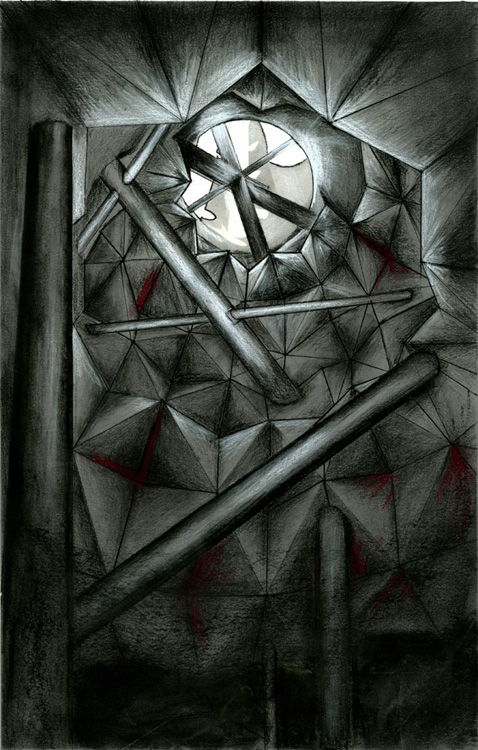
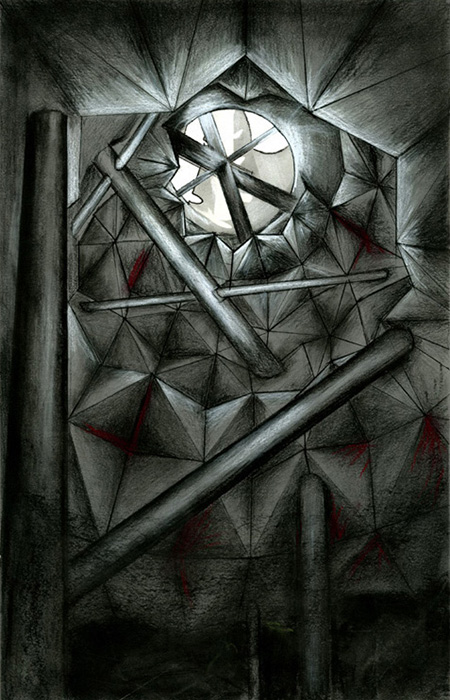
Architecture Page Responsiveness

diff --git a/assets/css/world.css b/assets/css/world.css
@@ -77,7 +77,7 @@ h7 {
     line-height: 1.4;
 }
 h8 {
-    font-size: calc(40px + (80 - 40) * ((100vw - 320px) / (1600 - 320)));;;
+    font-size: calc(30px + (80 - 30) * ((100vw - 320px) / (1600 - 320)));;;
     color:#3D3D3D; 
     font-family: 'Oswald', sans-serif;
     letter-spacing: 3px;
@@ -273,6 +273,7 @@ p {
 }
 .back-flex p { 
     font-size: calc(8px + (14 - 8) * ((100vw - 320px) / (1600 - 320)));
+    line-height: 1.4;
 }
 /* Desktop */
 @media all and (min-width:1500px) {
@@ -324,8 +325,6 @@ p {
     border: solid;
     border-width: 1px;
     align-self: end;
-    display: flex;
-
 }
 .arch-b {
     grid-area: title-a;
@@ -345,27 +344,29 @@ p {
     min-width: 0;
     border: solid;
     border-width: 1px;
-    object-fit: cover;
+    height: 100%;
 }
 .arch-e {
     grid-area: description-a;
     min-width: 0;
     font-size: calc(8px + (14 - 8) * ((100vw - 320px) / (1600 - 320)));
     line-height: 1.4;
+    align-self: center;
 }
 .arch-f {
     grid-area: section1-a;
     min-width: 0;
     border: solid;
     border-width: 1px;
-    object-fit: cover;
+    align-self: end;
 }
 .arch-g {
     grid-area: section2-a;
     min-width: 0;
     border: solid;
     border-width: 1px;
-    object-fit: cover;
+    align-self: end;
+    
 }
 .arch-h {
     grid-area: interior2-a;
@@ -379,12 +380,7 @@ p {
     min-width: 0;
     border: solid;
     border-width: 1px;
-    object-fit: cover;
-}
-.back3 img { 
-    object-fit: cover;
-    width: 100%;
-    max-height: 100%;
+    height: 100%;
 }
 .back3 {
     display: flex; 
@@ -398,9 +394,7 @@ p {
     background-color: none;
     margin: -15% auto 0px auto;
     display: grid;
-    overflow: hidden;
     grid-template-columns: 2fr repeat(2, 1fr);
-    grid-template-rows: 100px 270px 260px 370px 300px 700px;
     grid-template-areas: 
       ". concept-a concept-a"
       "title-a concept-a concept-a"
@@ -459,8 +453,9 @@ p {
 .comm-c {
     grid-area: intro-c;
     font-size: calc(8px + (14 - 8) * ((100vw - 320px) / (1600 - 320)));
+    line-height: 1.4;
     text-align: right;
-    min-width: 0;
+    align-self: center;
 }
 .comm-c p {
     font-size: (8px + (14 - 8) * ((100vw - 320px) / (1600 - 320)));
@@ -469,9 +464,9 @@ p {
     grid-area: birdseye-c;
     min-width: 0;
     border: solid;
-    object-fit: cover;
-    border: solid;
     border-width: 1px;
+    height: 100%;
+    min-height: 350px;
 }
 .comm-e {
     grid-area: diagram-c;
@@ -480,44 +475,36 @@ p {
 .comm-f {
     grid-area: plan1-c;
     min-width: 0;
-    object-fit: cover;
+    width: 75%;
+    margin: 0 auto;
 }
 .comm-g {
     grid-area: plan2-c;
     min-width: 0;
-    object-fit: cover;
+    width: 75%;
+    margin: 0 auto;
 }
 .comm-h {
     grid-area: ext1-c;
     min-width: 0;
-    object-fit: cover;
     border: solid;
     border-width: 1px;
 }
 .comm-i {
     grid-area: ext2-c;
     min-width: 0;
-    object-fit: cover;
     border: solid;
     border-width: 1px;
 }
 .comm-j {
     grid-area: elev-c;
     min-width: 0;
-    object-fit: cover;
     border: solid;
     border-width: 1px;
 }
 .comm-k {
     grid-area: section-c;
     min-width: 0;
-    object-fit: cover;
-    overflow: hidden;
-}
-.back4 img { 
-    object-fit: cover;
-    width: 100%;
-    max-height: 100%;
 }
 .back4 {
     display: flex; 
@@ -532,9 +519,7 @@ p {
     background-color: none;
     margin: -15% auto 0px auto;
     display: grid;
-    overflow: hidden;
     grid-template-columns: 1.1fr 1fr;
-    grid-template-rows: 100px 200px repeat(2, 300px) repeat(2, 150px) 250px 400px;
     grid-template-areas: 
       "concept-c ."
       "concept-c title-c"
@@ -605,6 +590,7 @@ p {
 }
 .wind-d p {
     font-size: calc(8px + (14 - 8) * ((100vw - 320px) / (1600 - 320)));
+    line-height: 1.4;
 }
 .wind-e {
     grid-area: birdeye-w;
@@ -637,11 +623,6 @@ p {
     min-width: 0;
     align-self: end;
 }
-.back5 img { 
-    object-fit: cover;
-    width: 100%;
-    max-height: 100%;
-}
 .back5 {
     display: flex; 
     flex-flow: row wrap; 
@@ -656,7 +637,6 @@ p {
     margin: -20% auto 0px auto;
     display: grid;
     grid-template-columns: repeat(2, 1fr);
-    grid-template-rows: 90px 200px 300px 375px 300px 500px 400px;
     grid-template-areas: 
       ". concept1-w"
       "title-w concept1-w"

diff --git a/architecture.html b/architecture.html
@@ -108,7 +108,9 @@
     <!-- ARCHIVES Page -->
     <section class="back3 aos-item" data-aos="fade-up">
         <div class="grid-a">
-            <img class="arch-a" src="assets/images/architecture/03-archives-of-unfinished-work/web/concept.jpg" alt="Concept">
+            <div class="arch-a">
+            <img src="assets/images/architecture/03-archives-of-unfinished-work/web/concept.jpg" alt="Concept">
+            </div>
             <h8 class="arch-b">ARCHIVES OF UNFINISHED WORK</h8>
             <div class="arch-c">
             <h6><u>THE BORDER</u></h6>
